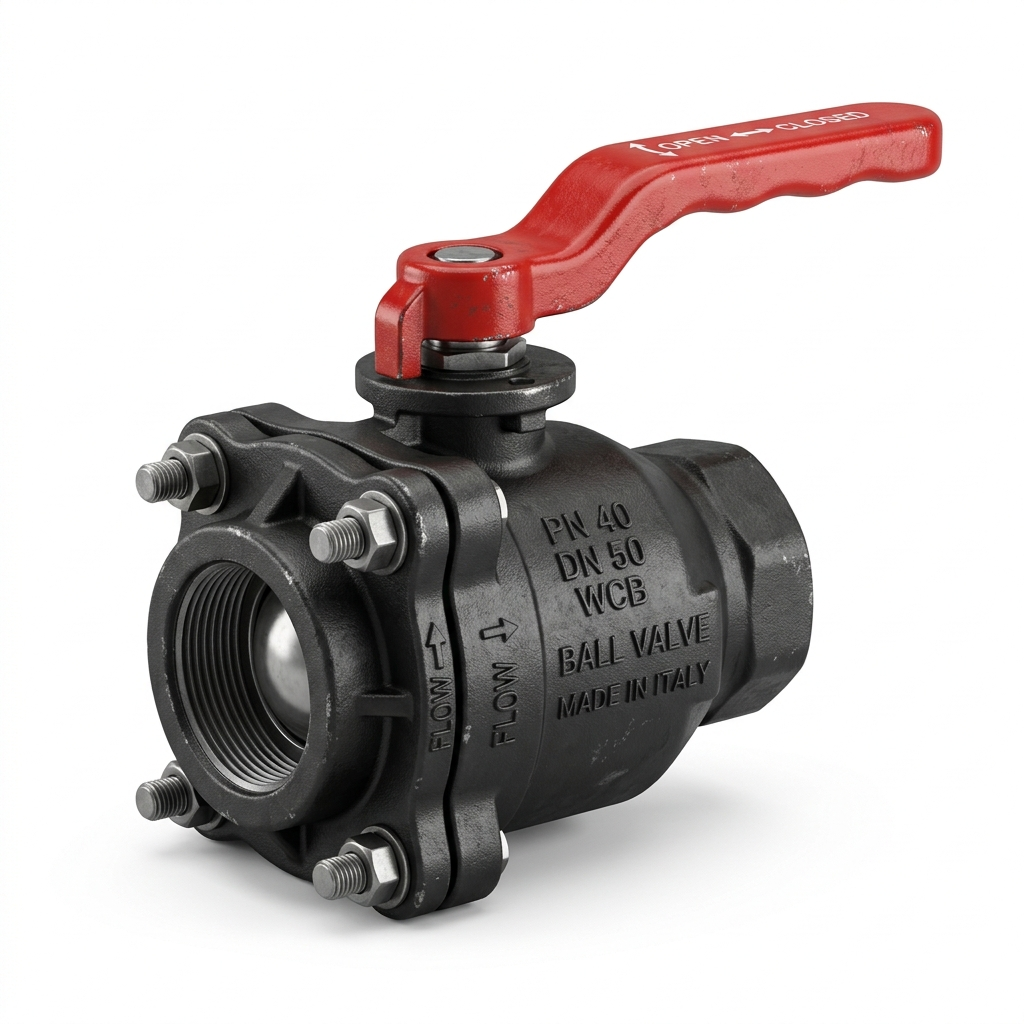
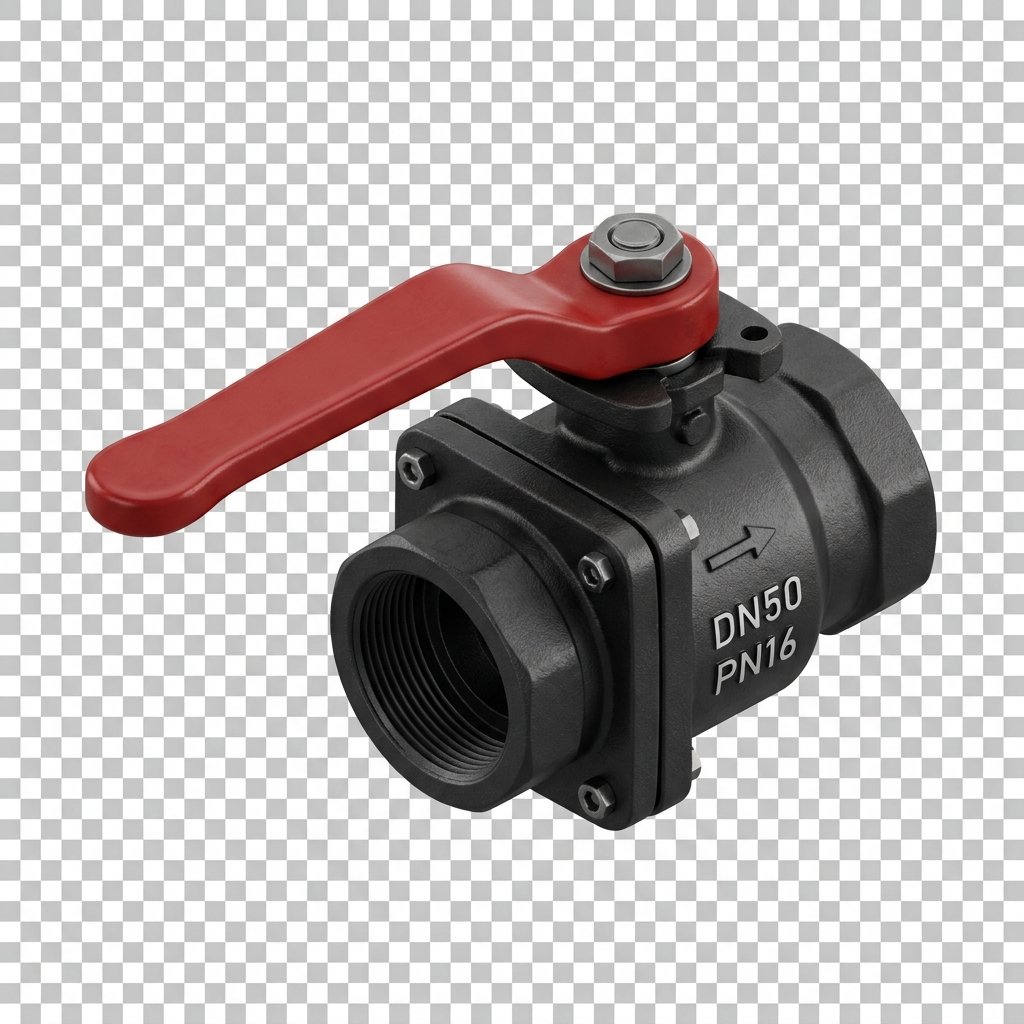
feat: push latest changes to sample branch

diff --git a/client/src/pages/AllNodes.tsx b/client/src/pages/AllNodes.tsx
@@ -364,7 +364,18 @@ const CurrentWaveform = ({ value }: { value: number }) => {
 
 const NodeCardItem = ({ 
 node, realtimeStatuses }: { node: any, realtimeStatuses: any }) => {
-  const cfg = CATEGORY_CONFIG[(node.category as NodeCategory) || "OHT"] || CATEGORY_CONFIG["OHT"];
+  const isTank = ["evaratank", "EvaraTank", "tank", "sump", "OHT", "Sump"].includes((node.category || node.asset_type || "").toString());
+  const isFlow = node.analytics_template === 'EvaraFlow' || (node.category || "").toString() === 'EvaraFlow' || (node.category || "").toString() === 'flow' || (node.category || "").toString() === 'FlowMeter';
+  const isMotor = node.analytics_template === 'EvaraMotor' || (node.category || "").toString() === 'EvaraMotor' || (node.category || "").toString() === 'EvaraOps' || (node.category || "").toString() === 'phase';
+  const isValve = node.analytics_template === 'EvaraValve' || (node.category || "").toString() === 'EvaraValve' || (node.category || "").toString().toLowerCase().includes('valve');
+
+  // Determine which analytics config to use
+  const analyticsType = (node.analytics_template as AnalyticsType) || 
+                       (isTank ? "EvaraTank" : isFlow ? "EvaraFlow" : isMotor ? "EvaraMotor" : isValve ? "EvaraValve" : "EvaraTank");
+  const analyticsCfg = ANALYTICS_CONFIG[analyticsType] || ANALYTICS_CONFIG["EvaraTank"];
+
+  // Use the specific Evara config if identified, otherwise fallback to category config
+  const cfg = isValve ? CATEGORY_CONFIG.EvaraValve : (CATEGORY_CONFIG[(node.category as NodeCategory) || "OHT"] || CATEGORY_CONFIG["OHT"]);
 
   const realtimeSnapshot = realtimeStatuses[node.id];
   const base = realtimeSnapshot || node.last_telemetry || {};
@@ -388,21 +399,11 @@ node, realtimeStatuses }: { node: any, realtimeStatuses: any }) => {
     ? (node.online_status ? "Online" : "Offline")
     : computeDeviceStatus(effectiveTs);
   const isOnline = currentStatus === "Online";
-  const isTank = ["evaratank", "EvaraTank", "tank", "sump", "OHT", "Sump"].includes((node.category || node.asset_type || "").toString());
-  const isFlow = node.analytics_template === 'EvaraFlow' || (node.category || "").toString() === 'EvaraFlow' || (node.category || "").toString() === 'flow' || (node.category || "").toString() === 'FlowMeter';
-  const isMotor = node.analytics_template === 'EvaraMotor' || (node.category || "").toString() === 'EvaraMotor' || (node.category || "").toString() === 'EvaraOps' || (node.category || "").toString() === 'phase';
-  const isValve = node.analytics_template === 'EvaraValve' || (node.category || "").toString() === 'EvaraValve' || (node.category || "").toString().toLowerCase().includes('valve');
-
 
   const lastTel = realtimeSnapshot || node.last_telemetry || {};
   const motorRunning = lastTel.isRunning ?? lastTel.motor_status ?? true;
 
   const pct = lastTel.level_percentage ?? getTankLevel(node, lastTel);
-
-  // Determine which analytics config to use
-  const analyticsType = (node.analytics_template as AnalyticsType) || 
-                       (isTank ? "EvaraTank" : isFlow ? "EvaraFlow" : isMotor ? "EvaraMotor" : isValve ? "EvaraValve" : "EvaraTank");
-  const analyticsCfg = ANALYTICS_CONFIG[analyticsType] || ANALYTICS_CONFIG["EvaraTank"];
 
   if (analyticsType === 'EvaraTDS' || (node.category || node.asset_type || '').toString().toLowerCase().includes('tds')) {
     return <TDSCard node={node} realtimeStatus={realtimeSnapshot} />;
@@ -594,7 +595,7 @@ node, realtimeStatuses }: { node: any, realtimeStatuses: any }) => {
 
 
         {/* Bottom Metadata (Only for Tanks/Generic) */}
-        {!isFlow && !isMotor && (
+        {!isFlow && !isMotor && !isValve && (
           <div className="mt-auto flex items-center justify-between pt-3 px-1">
             <div className="flex items-center gap-1.5 text-[12px] font-[800] card-location truncate pr-2">
               <MapPin size={14} className="shrink-0 card-location" />
@@ -606,8 +607,18 @@ node, realtimeStatuses }: { node: any, realtimeStatuses: any }) => {
           </div>
         )}
 
+        {/* Location for Valves (Just location, no capacity) */}
+        {isValve && (
+          <div className="mt-auto flex items-center justify-between pt-1 px-1">
+            <div className="flex items-center gap-1.5 text-[12px] font-[800] card-location truncate pr-2">
+              <MapPin size={14} className="shrink-0 card-location" />
+              <span className="truncate uppercase card-location">{node.location_name || "Main Site"}</span>
+            </div>
+          </div>
+        )}
+
         {/* Location for Flow Devices (Same as TDS) */}
-        {(isFlow || isMotor || isValve) && (
+        {(isFlow || isMotor) && (
           <div className="mt-auto flex items-center justify-between pt-1 px-1">
             <div className="flex items-center gap-1.5 text-[12px] font-[800] card-location truncate pr-2">
               <MapPin size={14} className="shrink-0 card-location" />